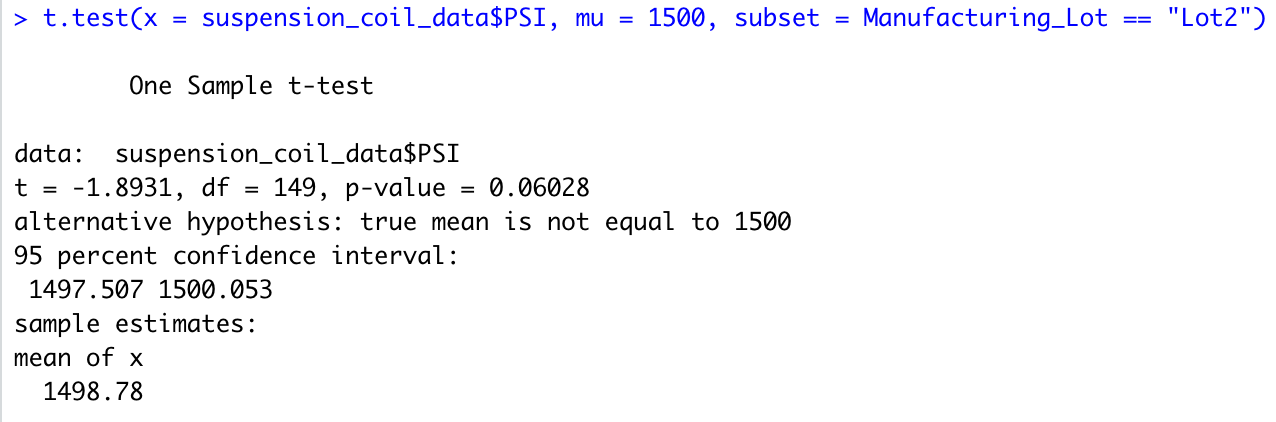
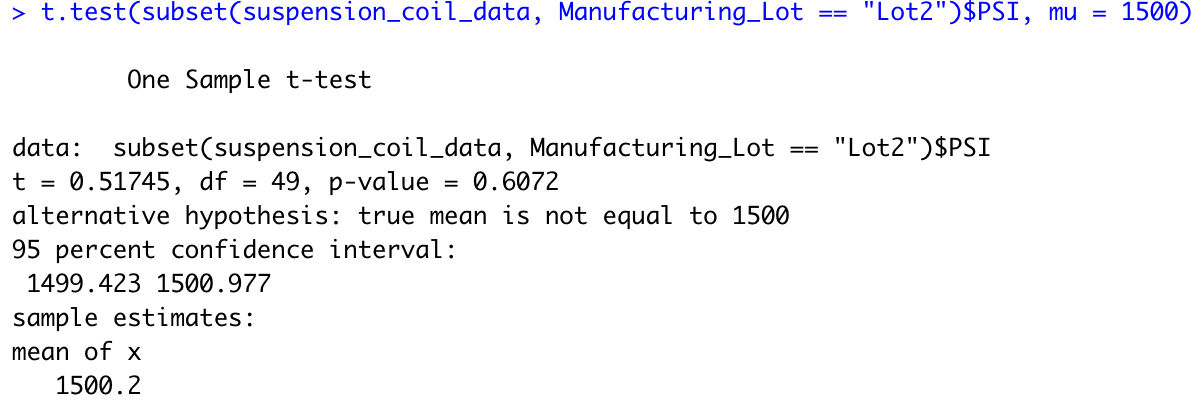
added t-test results

diff --git a/README.md b/README.md
@@ -13,7 +13,7 @@ The current manufacturing data meets the design specifications that dictate that
 [Lot Summary]()
 
 ## T-test on Suspension Coils 
-The p-values for the all the t-tests on the suspension coils amounted to 0.06028. Assuming a significance level of 0.05%, there is not enough evidence to reject the null hypothesis and all of the means are statistically similar.
+The p-values for the t-tests on the suspension coils across all manufacturing lots amounted to 0.06028. Assuming a significance level of 0.05%, there is not enough evidence to reject the null hypothesis and all of the means are statistically similar. The same can be said for lots 1 and 2 whose p-values were 1 and 0.6072 respectively. Lot 3 was the only lot that had enough evidence to reject the null hypothesis because the p-value was below the significance level at 0.04168. 
 [PSI v. Population Mean]()
 [PSI Lot 1 v Population Mean]()
 [PSI Lot 2 v Population Mean]()
